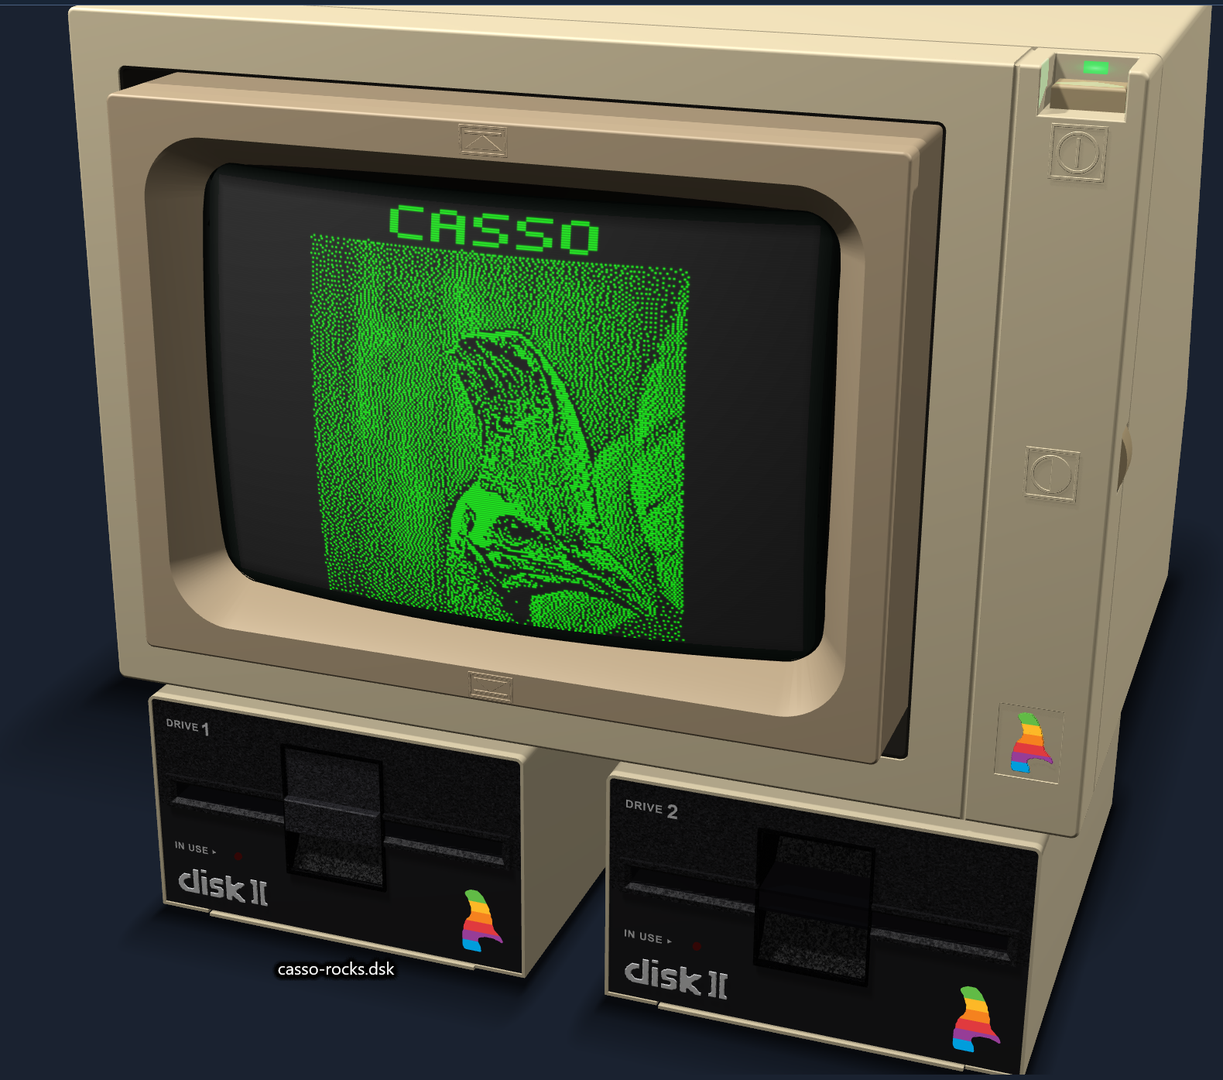
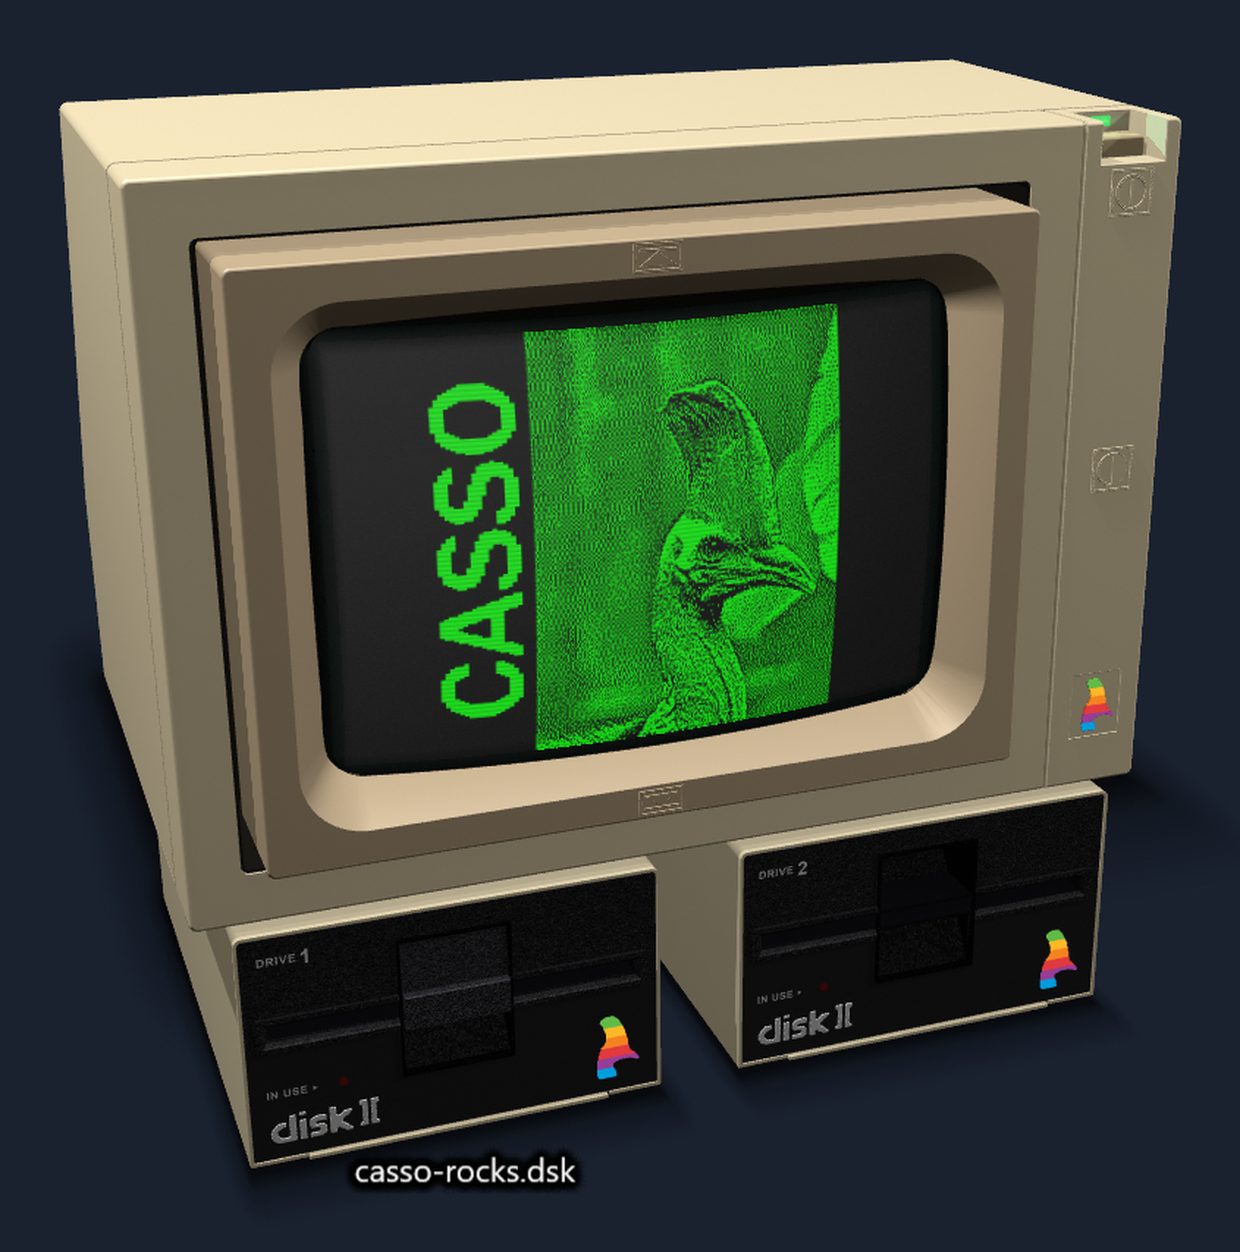
docs(readme): lead with all three themes, and refresh the stale desk shots
The top of the page showed two skeuomorphic shots, which made the desk
look like the only option before a reader reached anything that said
otherwise. It is now one row of three, one per theme, all the same size:
Skeuomorphic on a color Monitor II, Dark Modern on amber, Retro Terminal
on green. The monitor point the two old shots carried moves into the
paragraph above them, and the duplicate flat-theme tables further down
are gone now that the row leads.

feat-desk-scene, feat-desk-angle and feat-desk-2c still had the old
across-the-top title, so they are recaptured too.

diff --git a/README.md b/README.md
@@ -27,16 +27,17 @@ On the horizon:
 - Commodore VIC-20, 64
 
 The [casso-rocks demo disk](Apple2/Demos) asks which monitor you have and draws
-the cassowary for it. The same DHGR framebuffer means different things to a color
-screen and a monochrome one, and an image authored for either reads as noise on
-the other, so the demo ships both and your answer picks one:
+the cassowary for it: a color screen groups the same double hi-res framebuffer
+into 16-color cells, a monochrome one shows all 560 dots, and an image authored
+for either reads as noise on the other. Here it is in all three built-in themes:
 
 <table align="center" width="100%"><tr>
-  <td valign="top" width="50%"><img src="Assets/demo-dhgr-color.png" alt="The casso-rocks demo on an Apple //e with Monitor II set to color: the cassowary in 16-color DHGR, 140 color cells across" width="100%" /></td>
-  <td valign="top" width="50%"><img src="Assets/demo-dhgr-mono.png" alt="The same demo on an Apple //c green monochrome monitor: the cassowary dithered to one bit across all 560 dots" width="100%" /></td>
+  <td valign="top" width="33%"><img src="Assets/theme-skeuomorphic.png" alt="The Skeuomorphic theme: the casso-rocks demo on a modeled Apple //e desk with Monitor II switched to color, the cassowary in 16-color double hi-res" width="100%" /></td>
+  <td valign="top" width="33%"><img src="Assets/theme-dark-modern.png" alt="The Dark Modern theme: the same demo on an amber monitor under flat dark chrome, the cassowary dithered to one bit across all 560 dots" width="100%" /></td>
+  <td valign="top" width="33%"><img src="Assets/theme-retro-terminal.png" alt="The Retro Terminal theme: the same demo in green phosphor with heavy scanlines and bloom, under green-tinted chrome" width="100%" /></td>
 </tr></table>
 
-<p align="center"><sub>Monitor II is a green-phosphor screen by default; on the //e above it has been switched to color so the 16-color encoding reads as color. The //c keeps its period green monochrome. The desk is one of three themes: Dark Modern and Retro Terminal are flat, and full screen is the picture alone. See <a href="#themed-chrome">Themed chrome</a>.</sub></p>
+<p align="center"><sub>Skeuomorphic on a color Monitor II, Dark Modern on amber, Retro Terminal on green. Themes hot-swap from <b>Settings &#8594; Theme</b> with no restart and no machine reset, and full screen is the picture alone. See <a href="#themed-chrome">Themed chrome</a>.</sub></p>
 
 `CassoCli` accelerates the retro development loop, with no need for third-party tools:
 
@@ -207,15 +208,10 @@ the slot. To keep GPU use low the scene is cached, and when the screen stops
 changing Casso stops drawing altogether.
 
 **If a desk is not what you want, two flat themes ship alongside it.** Dark
-Modern and Retro Terminal drop the room for a menu, a toolbar and a row of
-slim drive bar, so the picture gets the window. Switch from **Settings →
-Theme** with no restart and no machine reset; see
-[Themed chrome](#themed-chrome).
-
-<table align="center" width="100%"><tr>
-  <td valign="top" width="50%"><img src="Assets/theme-dark-modern.png" alt="The Dark Modern theme: the casso-rocks cassowary in color under flat dark chrome, with a slim drive bar below the picture" width="100%" /></td>
-  <td valign="top" width="50%"><img src="Assets/theme-retro-terminal.png" alt="The Retro Terminal theme: the same demo in green phosphor with heavy scanlines and bloom, under green-tinted chrome" width="100%" /></td>
-</tr></table>
+Modern and Retro Terminal drop the room for a menu, a toolbar and a slim drive
+bar, so the picture gets the window. Switch from **Settings → Theme** with no
+restart and no machine reset. Both are [at the top of this page](#casso), and
+[Themed chrome](#themed-chrome) has the details.
 
 ### Disk file access from the command line (1.20)
 
@@ -402,14 +398,11 @@ machine reset. Each ships under `Resources/Themes/<Name>/` with a `theme.json`
 describing colors, CRT defaults, drive visuals, and other UI tokens; see
 [docs/themes/AUTHORING.md](docs/themes/AUTHORING.md) for the authoring surface.
 The two flat themes keep the chrome to a menu, a toolbar and a slim drive
-bar, so the picture gets the window:
+bar, so the picture gets the window; all three are
+[at the top of this page](#casso).
 
-<table align="center" width="100%"><tr>
-  <td valign="top" width="50%"><img src="Assets/theme-dark-modern.png" alt="The Dark Modern theme: the casso-rocks cassowary in color under flat dark chrome, with a slim drive bar below the picture" width="100%" /></td>
-  <td valign="top" width="50%"><img src="Assets/theme-retro-terminal.png" alt="The Retro Terminal theme: the same demo in green phosphor with heavy scanlines and bloom, under green-tinted chrome" width="100%" /></td>
-</tr></table>
-
-<p align="center"><sub>Retro Terminal turns the CRT effects up: scanlines at three quarters strength, a wide bloom and color bleed, all still yours to adjust on the Display tab.</sub></p>
+Retro Terminal turns the CRT effects up: scanlines at three quarters strength,
+a wide bloom and color bleed, all still yours to adjust on the Display tab.
 
 <p align="center"><img src="Assets/theme-retro-detail.png" alt="A 1:1 detail of the Retro Terminal picture: the CASSO title climbing the left edge, with visible scanlines and phosphor bloom" width="360" /></p>
 
